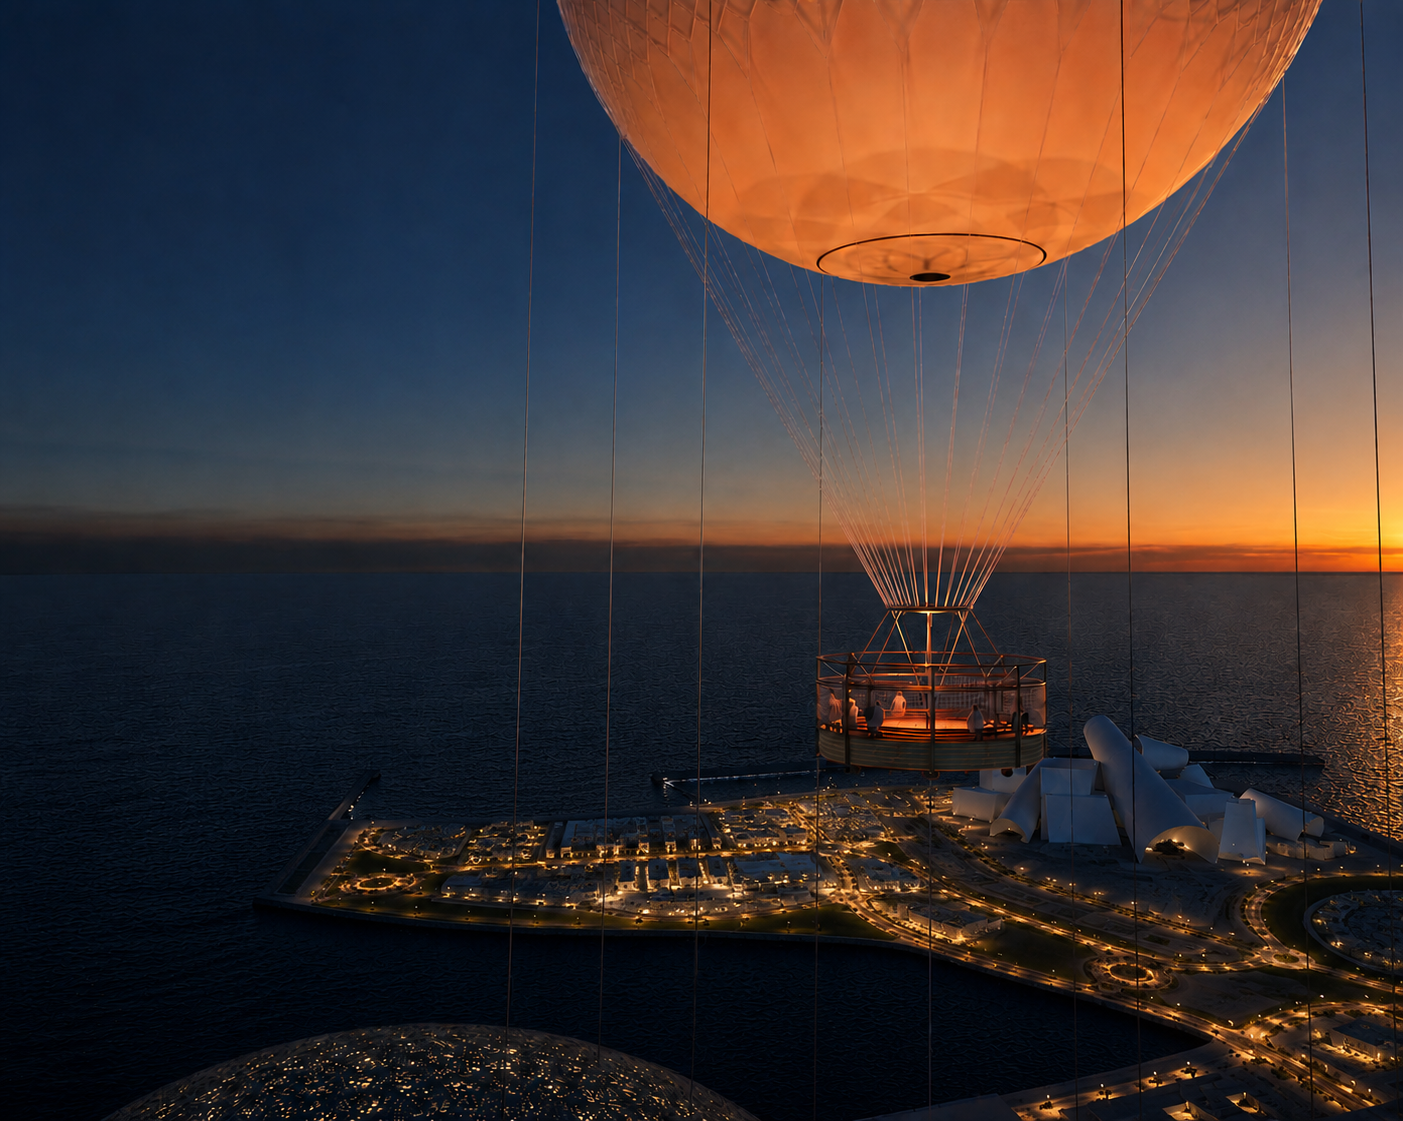
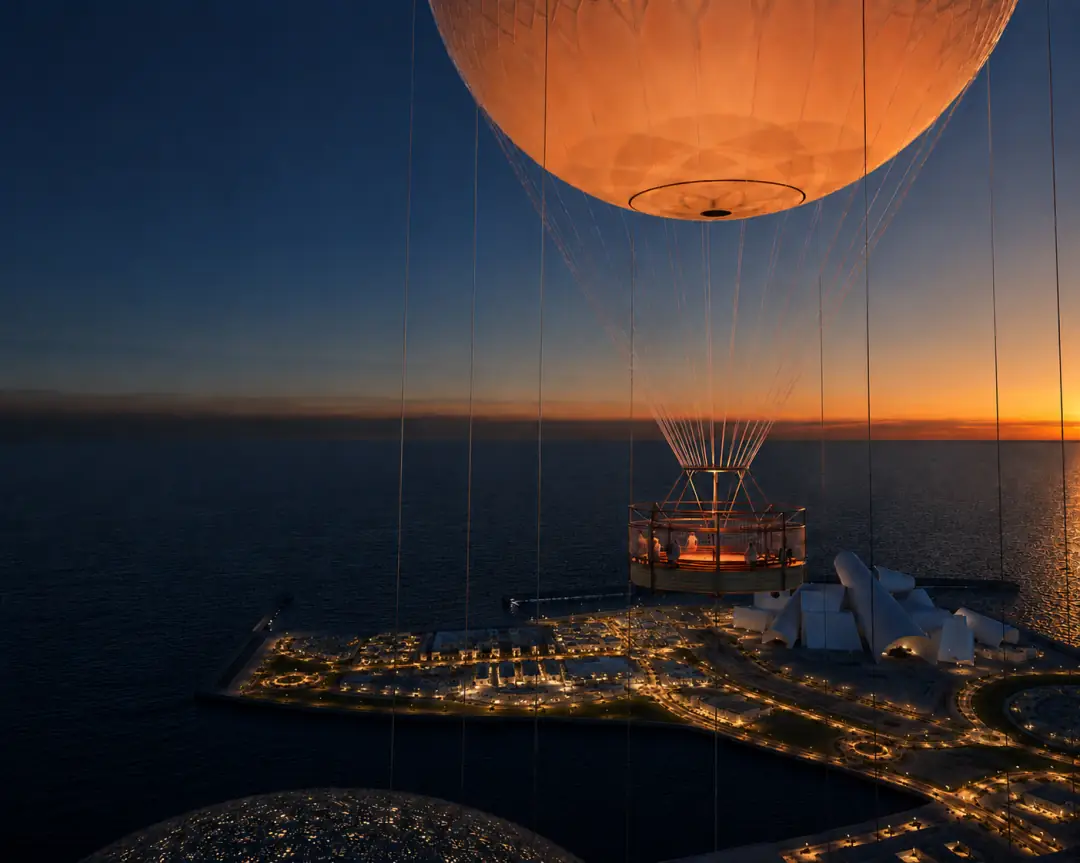
Android: fix slide-5+ clipping by ditching always-on will-change
Real cause of the Android "slide 5 clips, rest doesn't load" report:
.slide had will-change: opacity, transform applied permanently to all
11 slides. At 1920×1080 each, that's ~90 MB of GPU compositor layers
held resident — past Android Chrome's per-tab layer budget. Once
exceeded, the compositor starts evicting layers and downstream slides
paint blank/clipped.

Compositor / layout
- Stripped will-change from .slide base rule; added .is-animating
  scoped to the active + previous slide only, cleared 600 ms after
  navigation (just past the 520 ms transition)
- Added .is-far class for slides ≥2 away from active, gated by
  content-visibility: hidden + contain: layout paint so the compositor
  releases their layers entirely
- goTo() rewritten to compute/apply both classes per navigation

Slide 3 — auto-cycle removed
- Per request: no more automatic step-through. Transitions only fire
  when the user taps a step button or drags the balloon
- Dropped scheduleAutoAdvance / stopAutoPlay / autoPlayActive /
  restartTimer / autoAdvanceTimer / STATE_HOLD_MS / RESTART_DELAY
- showState() no longer schedules anything; suspend() (on slide-leave
  + visibilitychange) just pauses the video and clears the safety
  timer — no resume() needed
- <video preload="auto" → "none"> + boot no longer pre-fetches the
  first clip; nothing on slide 3 loads until the user interacts

Image weight (slides 1, 4, 5, 6)
- 6 heavy PNGs → WebP (q82 opaque, q88 alpha):
[…]

diff --git a/index.html b/index.html
@@ -89,7 +89,15 @@
        Inactive slides "before" the current one rest 80px to the left and
        inactive slides "after" rest 80px to the right. Active slide is at
        center. Result: advancing → new slide enters from right; going back
-       → new slide enters from left. Crossfade overlaps in the middle.   */
+       → new slide enters from left. Crossfade overlaps in the middle.
+
+       NOTE: will-change is intentionally NOT set on .slide itself —
+       applying it to all 11 slides at 1920×1080 promotes ~90 MB of GPU
+       compositor layers permanently, which Android Chrome can't hold and
+       starts evicting (showing as clipped/blank slides past ~slide 5).
+       The .is-active / .is-before / .is-after classes only get will-change
+       during the brief transition window so Chrome composites cleanly
+       without holding layers for every slide.                            */
     .slide {
       position: absolute; inset: 0;
       opacity: 0;
@@ -102,7 +110,6 @@
       transition:
         opacity   520ms cubic-bezier(0.4, 0, 0.2, 1),
         transform 520ms cubic-bezier(0.22, 0.61, 0.36, 1);
-      will-change: opacity, transform;
     }
     .slide.is-before { transform: translateX(-80px); }
     .slide.is-after  { transform: translateX( 80px); }
@@ -110,6 +117,18 @@
       opacity: 1;
       transform: translateX(0);
       pointer-events: auto;
+    }
+    /* Promote to compositor only for slides adjacent to the active one
+       (the only ones that animate). Class is added/removed by goTo().    */
+    .slide.is-animating { will-change: opacity, transform; }
+    /* Hide off-screen slides from the compositor entirely so Android
+       doesn't keep their layers warm. Adjacent slides still need to
+       paint mid-transition, so only hide those 2+ away from active.
+       content-visibility: hidden skips paint/layout for the subtree —
+       compositor releases the layer immediately.                         */
+    .slide.is-far {
+      content-visibility: hidden;
+      contain: layout paint;
     }
 
     /* Per-slide background variants — light tier (default) + dark (ink) */
@@ -1101,7 +1120,7 @@
 
       <!-- ── 1 · HERO ──────────────────────────────────────────────────── -->
       <section class="slide slide--ink has-bg-image is-active" data-slide="1">
-        <div class="slide-bg" style="background-image: url('HTML_assets/hero-aerial-night.png');"></div>
+        <div class="slide-bg" style="background-image: url('HTML_assets/hero-aerial-night.webp');"></div>
         <div class="slide-content">
           <div class="stack-lg">
             <span class="eyebrow">Saadiyat Island · Abu Dhabi · Investor Pitch</span>
@@ -1226,15 +1245,16 @@
           <div class="exp-viewer" id="expViewer">
             <img class="exp-state-img"   id="expStateImg"
                  src="HTML_assets/Vertical%20Altitude%20Experience/v2/states/state_01_arrival.webp"
-                 alt="Arrival — LED field lit in tonight's theme" />
+                 alt="Arrival — LED field lit in tonight's theme"
+                 decoding="async" />
             <!-- Transition <video>: one element, src swapped per segment.
                  muted + playsinline = iOS-friendly inline autoplay.
-                 preload="auto" so the first clip's bytes arrive ahead of
-                 the first auto-advance.                                  -->
+                 preload="none" — auto-cycle was removed, so we don't fetch
+                 any clip until the user actually triggers a transition.   -->
             <video class="exp-trans-video" id="expTransVideo"
-                   muted playsinline preload="auto"
+                   muted playsinline preload="none"
                    disablepictureinpicture aria-hidden="true"></video>
-            <img class="exp-state-overlay" id="expStateOverlay" src="" alt="" />
+            <img class="exp-state-overlay" id="expStateOverlay" src="" alt="" decoding="async" />
 
             <!-- Altitude indicator — wider strip with step names + 14px labels -->
             <div class="alt-indicator">
@@ -1296,7 +1316,7 @@
 
           <div class="tab-panel is-active" data-tab="a">
             <div class="theme-row">
-              <img src="HTML_assets/DroneShot_comp.Theme_A.png" alt="Theme A drone composite — balloon, Saadiyat museums, and the LED ring rendering the gold Louvre show" />
+              <img src="HTML_assets/DroneShot_comp.Theme_A.webp" alt="Theme A drone composite — balloon, Saadiyat museums, and the LED ring rendering the gold Louvre show" loading="lazy" decoding="async" fetchpriority="low" />
               <div>
                 <div class="col-num">Theme A · Louvre Abu Dhabi</div>
                 <h3 class="col-title">The Universal Collection</h3>
@@ -1311,7 +1331,7 @@
 
           <div class="tab-panel" data-tab="b">
             <div class="theme-row">
-              <img src="HTML_assets/DroneShot_comp.Theme_B.png" alt="Theme B drone composite — balloon, Saadiyat museums, and the LED ring rendering the amber Zayed National Museum show" />
+              <img src="HTML_assets/DroneShot_comp.Theme_B.webp" alt="Theme B drone composite — balloon, Saadiyat museums, and the LED ring rendering the amber Zayed National Museum show" loading="lazy" decoding="async" fetchpriority="low" />
               <div>
                 <div class="col-num">Theme B · Zayed National Museum</div>
                 <h3 class="col-title">The Nation's Story</h3>
@@ -1326,7 +1346,7 @@
 
           <div class="tab-panel" data-tab="c">
             <div class="theme-row">
-              <img src="HTML_assets/DroneShot_comp.Theme_C.png" alt="Theme C drone composite — balloon, Saadiyat museums, and the LED ring rendering the cobalt and magenta Guggenheim show" />
+              <img src="HTML_assets/DroneShot_comp.Theme_C.webp" alt="Theme C drone composite — balloon, Saadiyat museums, and the LED ring rendering the cobalt and magenta Guggenheim show" loading="lazy" decoding="async" fetchpriority="low" />
               <div>
                 <div class="col-num">Theme C · Guggenheim Abu Dhabi</div>
                 <h3 class="col-title">The Future Canvas</h3>
@@ -1354,7 +1374,7 @@
         <h2 class="display-l" style="margin-top: 14px;">The canvas behind the show.</h2>
 
         <div class="canvas-split">
-          <img src="HTML_assets/TheCanvasBehindTheShow.png" alt="Four-panel composite — LED ring close-up, aerial of balloon and Saadiyat museums, and ring rendering themed content" />
+          <img src="HTML_assets/TheCanvasBehindTheShow.webp" alt="Four-panel composite — LED ring close-up, aerial of balloon and Saadiyat museums, and ring rendering themed content" loading="lazy" decoding="async" fetchpriority="low" />
           <div>
             <p class="lede" style="margin-top: 0;">A 60-meter ring built from 6,175 identical 600mm aluminum plate tiles, each carrying nine addressable RGBW stems. Designed from the first sketch to be serviced from above — no specialist crew, no crane, no downtime.</p>
             <div class="stat-row-4" style="grid-template-columns: repeat(2, 1fr); gap: 32px; margin-top: 36px;">
@@ -1377,7 +1397,7 @@
         <p class="lede" style="margin-top: 14px;">The investment carries a single aluminum plate tile specification: lighter to handle, precision-machined, refinishable, and built around the locked 9-LED content pipeline.</p>
 
         <div class="tier-row" style="margin-top: 36px;">
-          <img src="HTML_assets/investment-tier-high.png" alt="8mm aluminum plate tile with adjustable feet and 9 LED stems" />
+          <img src="HTML_assets/investment-tier-high.webp" alt="8mm aluminum plate tile with adjustable feet and 9 LED stems" loading="lazy" decoding="async" fetchpriority="low" />
           <div>
             <h3 style="font-family: 'Playfair Display', serif; font-size: 26px; color: var(--text); font-weight: 600; margin-bottom: 12px;">Aluminum Plate Tile</h3>
             <div class="tier-price">AED 25.9M</div>
@@ -1768,14 +1788,40 @@
     /* ---- Slide navigation ----
        Slides before `current` get `is-before` (rest 80px to the left),
        slides after get `is-after` (rest 80px to the right). The active
-       slide animates to translateX(0) — see the .slide CSS rules above. */
+       slide animates to translateX(0) — see the .slide CSS rules above.
+
+       On every change we also juggle two performance classes:
+         · is-animating — applied to the active slide + its immediate
+           neighbour mid-transition only, so will-change kicks in just
+           when needed (cleared 600ms later, after the 520ms transition).
+         · is-far — applied to all slides ≥2 steps away from the active
+           one, so the compositor can drop their layers entirely. This
+           keeps total GPU layer memory roughly constant regardless of
+           how many slides the deck has, fixing the Android "slide 5
+           clips, rest doesn't load" symptom from over-promoted layers. */
+    let animatingTimer = null;
     function goTo(idx) {
+      const prev = current;
       current = (idx + slides.length) % slides.length;
       slides.forEach((s, i) => {
         s.classList.toggle('is-active', i === current);
         s.classList.toggle('is-before', i <  current);
         s.classList.toggle('is-after',  i >  current);
+        // Only the active slide + the one we're leaving need to animate.
+        const willAnimate = (i === current) || (i === prev);
+        s.classList.toggle('is-animating', willAnimate);
+        // Hide everything 2+ slides away from the active one.
+        const dist = Math.abs(i - current);
+        s.classList.toggle('is-far', dist >= 2);
       });
+      // Strip will-change after the transition completes so the layers
+      // get released back to the compositor.
+      if (animatingTimer) clearTimeout(animatingTimer);
+      animatingTimer = setTimeout(() => {
+        slides.forEach((s) => s.classList.remove('is-animating'));
+        animatingTimer = null;
+      }, 600);
+
       Array.from(dotsEl.children).forEach((d, i) =>
         d.classList.toggle('is-active', i === current)
       );
@@ -1916,12 +1962,14 @@
   })();
 
   /* ═══════════════════════════════════════════════════════════════════════
-     Slide 3 — Night Experience interactive player
+     Slide 3 — Night Experience interactive player (manual playback)
      -----------------------------------------------------------------------
      - Click step buttons or drag the altitude balloon to advance/return.
      - Each forward step plays a short MP4 clip (5 segments, ~3.5s each)
        between adjacent states; non-sequential jumps crossfade in 300ms.
-     - Auto-cycles through the 6 states; user interaction stops auto-play.
+     - No auto-cycle. The video stays unloaded until the user triggers a
+       transition — this keeps cumulative image/video memory low enough
+       on Android Chrome that the rest of the deck doesn't stall.
 
      iOS Safari notes:
        · <video muted playsinline> + .play() works without user gesture.
@@ -1983,16 +2031,10 @@
     const dragDir = [-1, -1, 1, 1, 1, -1];
     const hints   = ['↑ drag', '↑ drag', '↓ drag', '↓ drag', '↓ drag', '↑ restart'];
 
-    const STATE_HOLD_MS = 21000;  // 3× slower auto-advance — less aggressive
-    const RESTART_DELAY = 21000;  // pause on Finale before looping back
-
-    let activeStep      = 0;
-    let isAnimating     = false;
-    let restartTimer    = null;
-    let autoAdvanceTimer= null;
-    let autoPlayActive  = true;
-    let endedHandler    = null;
-    let safetyTimer     = null;
+    let activeStep   = 0;
+    let isAnimating  = false;
+    let endedHandler = null;
+    let safetyTimer  = null;
 
     const altMarkers = document.querySelectorAll('.alt-marker');
     const arrivalLabel = document.querySelector('.alt-marker[data-alt="0"] .alt-step');
@@ -2038,41 +2080,12 @@
         stateOverlay.src       = nextOverlaySrc;
         stateOverlay.classList.add('has-src');
         transVideo.classList.remove('is-active');
-        // Pause + reset so the GPU drops the decoded buffer between plays.
+        // Pause so the decoder can release the buffered frames.
         try { transVideo.pause(); } catch (_) {}
         expViewer.classList.remove('is-animating');
         activeStep  = step;
         isAnimating = false;
-
-        if (restartTimer)     { clearTimeout(restartTimer);     restartTimer = null; }
-        if (autoAdvanceTimer) { clearTimeout(autoAdvanceTimer); autoAdvanceTimer = null; }
-        if (!autoPlayActive) return;
-
-        if (step === 5) {
-          restartTimer = setTimeout(() => {
-            restartTimer = null;
-            if (activeStep === 5 && !isAnimating && autoPlayActive) goToStep(0);
-          }, RESTART_DELAY);
-        } else {
-          scheduleAutoAdvance(STATE_HOLD_MS);
-        }
       });
-    }
-
-    function scheduleAutoAdvance(delay) {
-      if (autoAdvanceTimer) { clearTimeout(autoAdvanceTimer); autoAdvanceTimer = null; }
-      if (!autoPlayActive) return;
-      autoAdvanceTimer = setTimeout(() => {
-        autoAdvanceTimer = null;
-        if (!autoPlayActive || isAnimating) return;
-        if (activeStep < 5) goToStep(activeStep + 1);
-      }, delay);
-    }
-
-    function stopAutoPlay() {
-      autoPlayActive = false;
-      if (autoAdvanceTimer) { clearTimeout(autoAdvanceTimer); autoAdvanceTimer = null; }
-      if (restartTimer)     { clearTimeout(restartTimer);     restartTimer = null; }
     }
 
     // Strip any pending 'ended' listener + safety timer from a previous play.
@@ -2157,12 +2170,9 @@
       }
     }
 
-    // Step button clicks → user takes control, stop auto-play
+    // Step button clicks → advance manually.
     stepBtns.forEach((btn) => {
-      btn.addEventListener('click', () => {
-        stopAutoPlay();
-        goToStep(+btn.dataset.step);
-      });
+      btn.addEventListener('click', () => goToStep(+btn.dataset.step));
     });
 
     /* ---- Balloon drag ----
@@ -2183,8 +2193,8 @@
       if (isAnimating) return;
       const dir = dragDir[activeStep];
       const nextStep = activeStep === 5 ? 0 : activeStep + 1;
-      if (dir === -1 && delta < -DRAG_THRESHOLD) { stopAutoPlay(); goToStep(nextStep); }
-      if (dir ===  1 && delta >  DRAG_THRESHOLD) { stopAutoPlay(); goToStep(nextStep); }
+      if (dir === -1 && delta < -DRAG_THRESHOLD) goToStep(nextStep);
+      if (dir ===  1 && delta >  DRAG_THRESHOLD) goToStep(nextStep);
     }
 
     altBalloon.addEventListener('pointerdown', (e) => {
@@ -2207,16 +2217,32 @@
     }, { passive: true });
     window.addEventListener('touchcancel', () => { isDragging = false; dragStartY = null; }, { passive: true });
 
-    /* ---- Boot ---- */
+    /* ---- Suspend when slide 3 is not active ----
+       When the user swipes away to slides 4-9, drop the video buffer
+       and clear any mid-transition safety timer so nothing keeps a hold
+       on memory in the background.                                      */
+    const slide3Section = document.querySelector('section[data-slide="3"]');
+    function suspend() {
+      try { transVideo.pause(); } catch (_) {}
+      if (safetyTimer) { clearTimeout(safetyTimer); safetyTimer = null; }
+    }
+    if (slide3Section) {
+      new MutationObserver(() => {
+        if (!slide3Section.classList.contains('is-active')) suspend();
+      }).observe(slide3Section, { attributes: true, attributeFilter: ['class'] });
+    }
+    document.addEventListener('visibilitychange', () => {
+      if (document.hidden) suspend();
+    });
+
+    /* ---- Boot ----
+       Show state 0 only. The transition video stays unloaded until the
+       user clicks a step button or drags the balloon — keeps the slide-3
+       memory footprint to two small WebPs until the user opts in.       */
     stateImg.src     = stateSrcs[0];
     stateOverlay.src = overlaySrcs[0];
     stateOverlay.classList.add('has-src');
     setAltitude(0);
-    // Warm up the first transition so the very first auto-advance has the
-    // bytes ready. Later clips load on demand the first time they play.
-    transVideo.src = transitionSrcs[0];
-    transVideo.load();
-    scheduleAutoAdvance(STATE_HOLD_MS);
   })();
 
   /* ═══════════════════════════════════════════════════════════════════════
